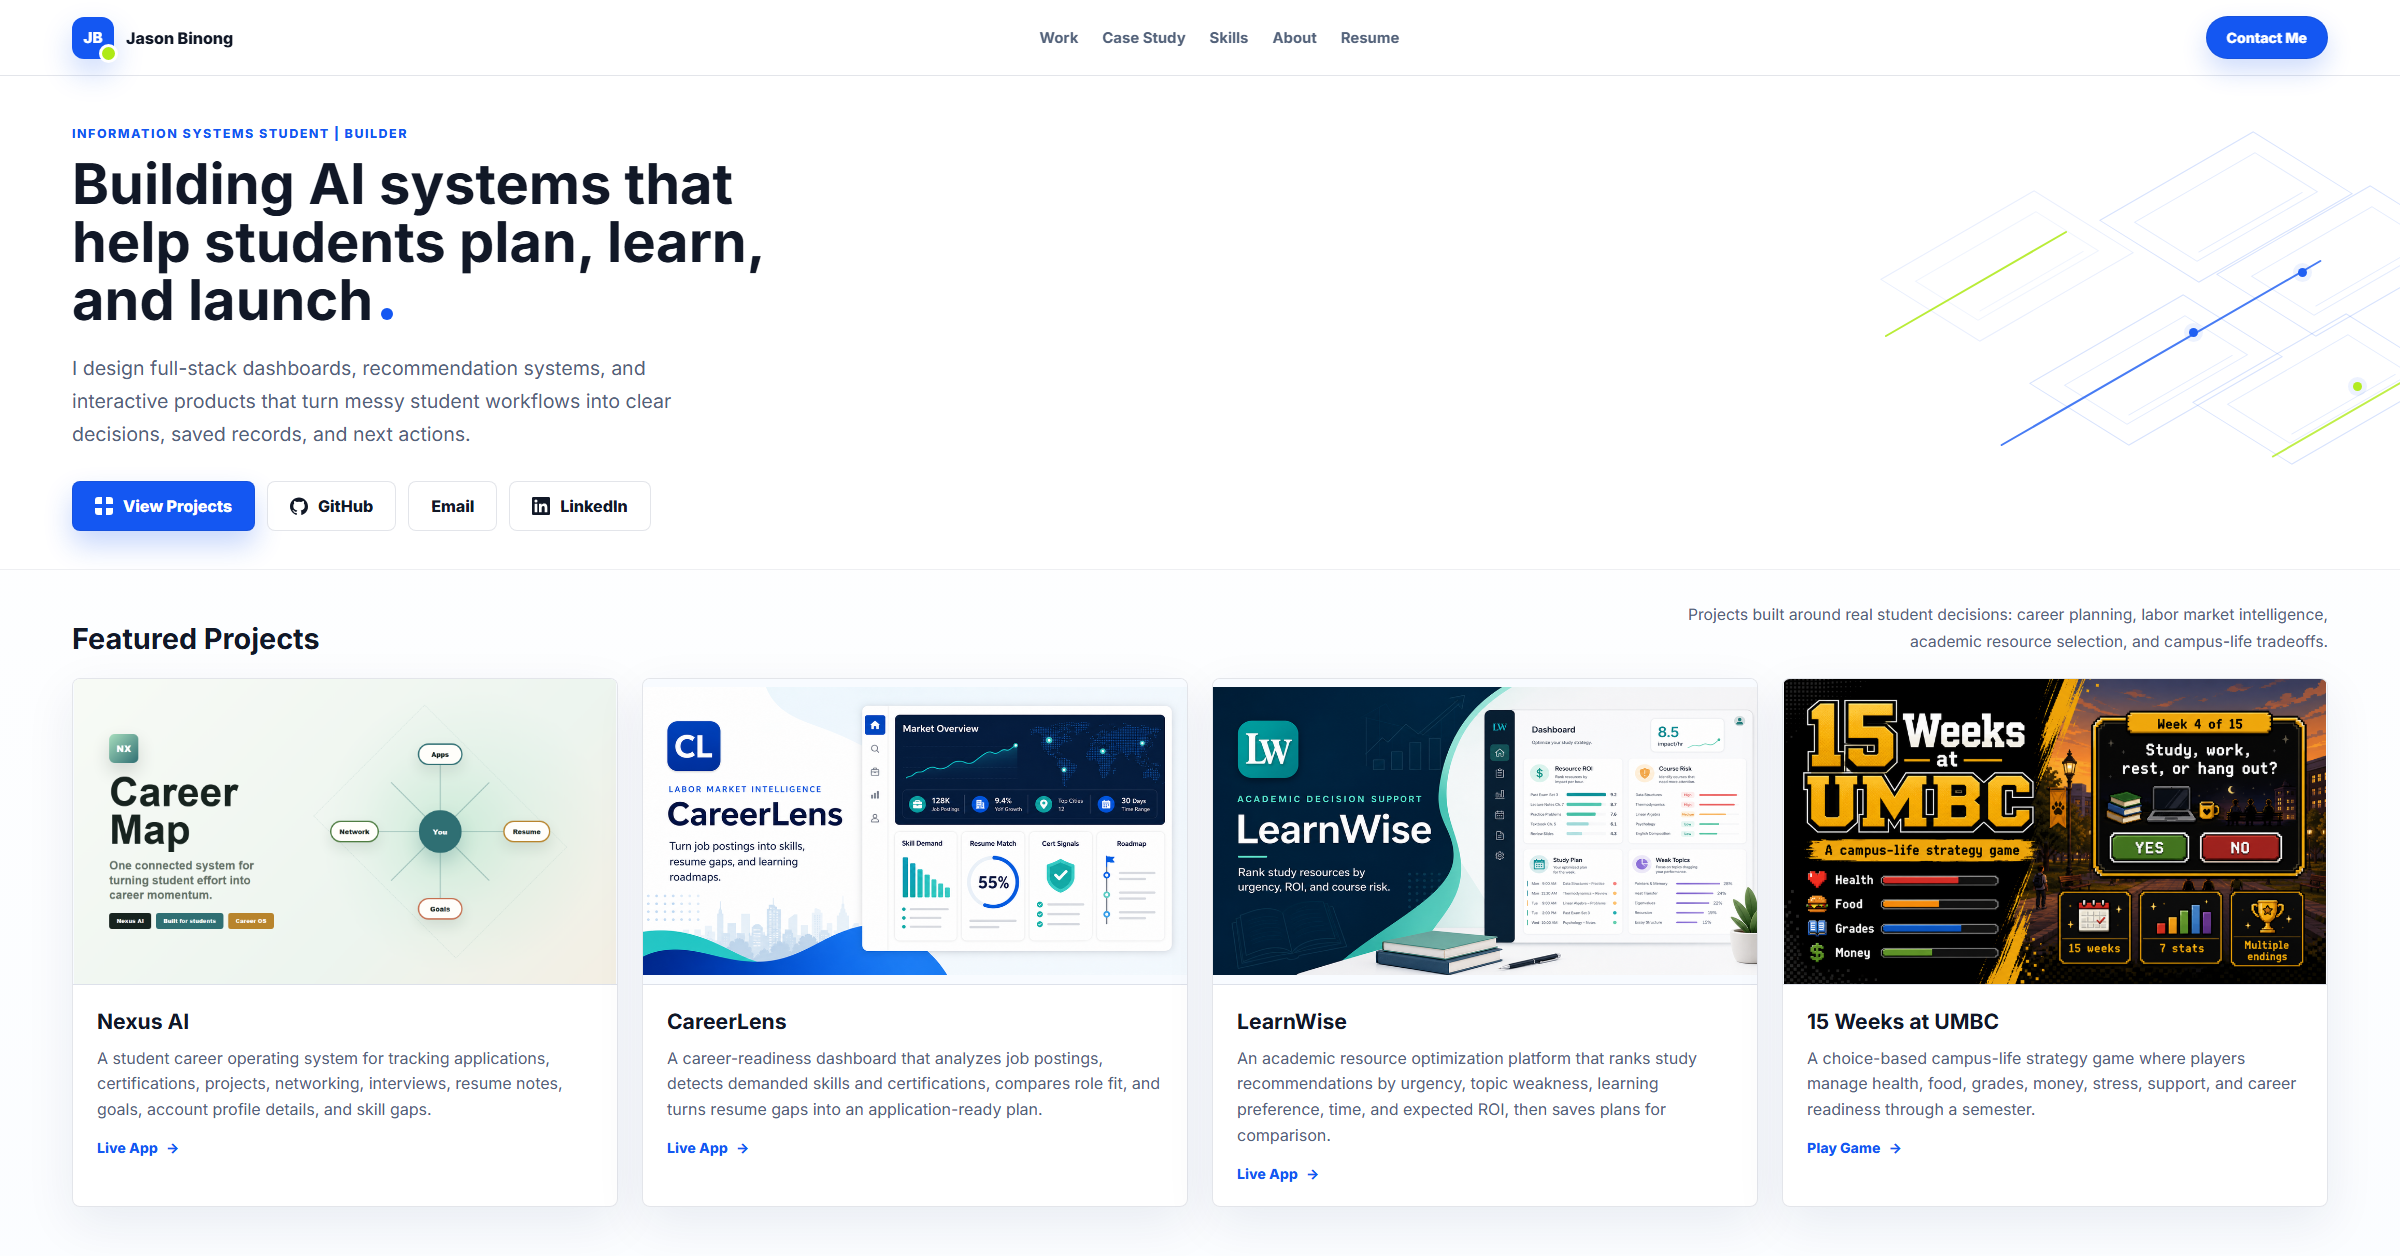
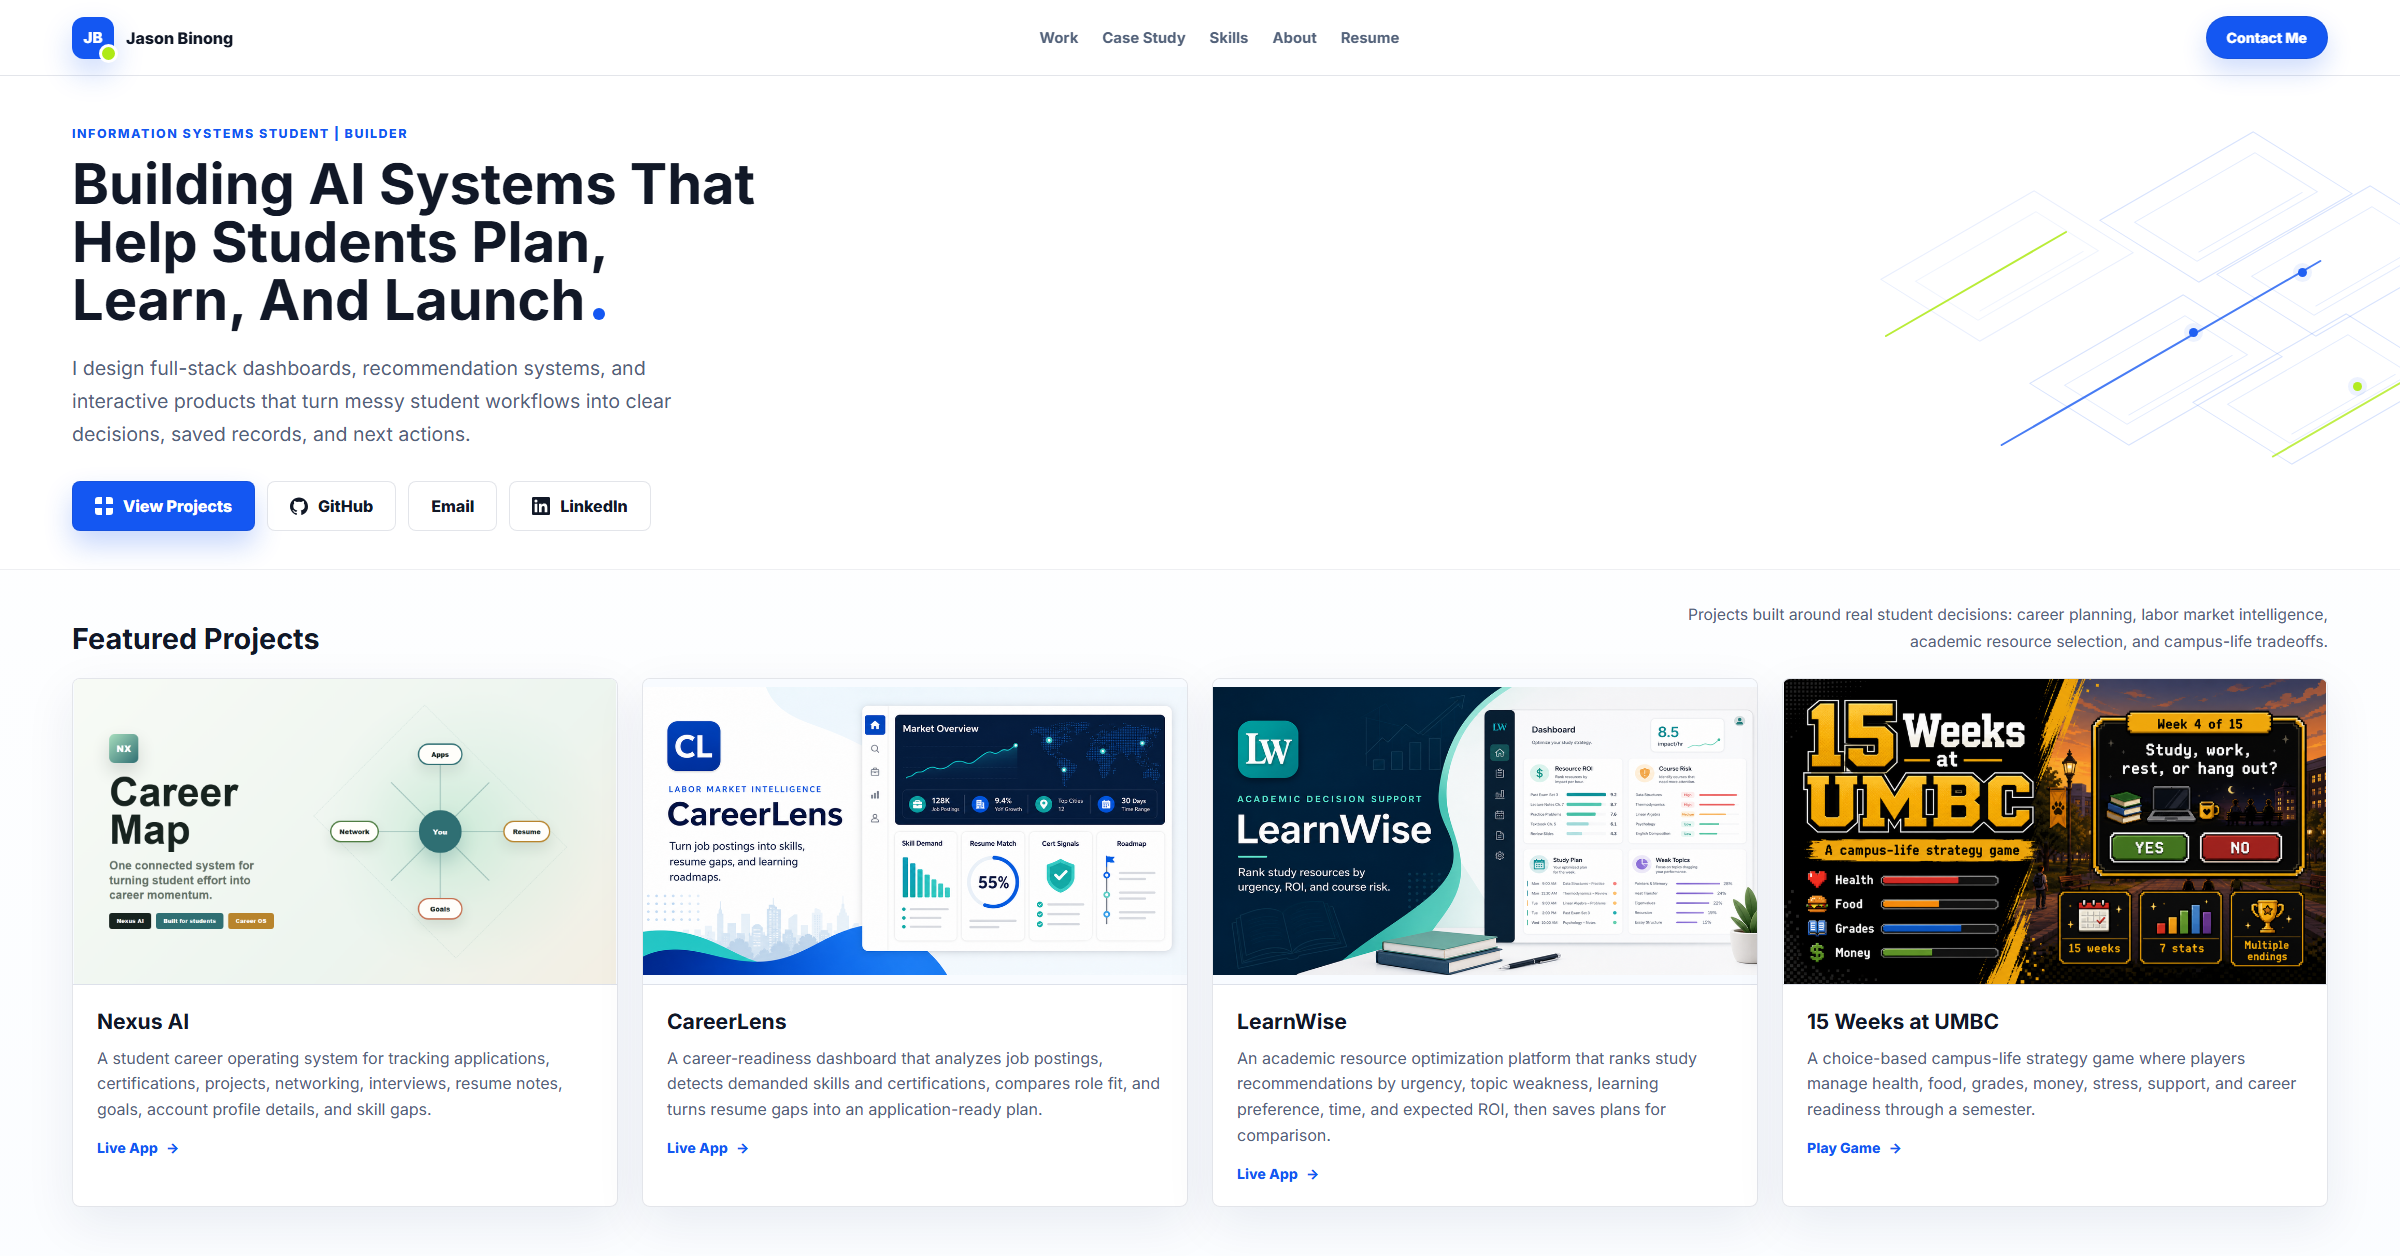
Use title case for portfolio hero

Changed region(s): [[0.0312, 0.1242, 0.3125, 0.2795]]

diff --git a/index.html b/index.html
@@ -30,7 +30,7 @@
     <section class="hero">
       <div class="hero-copy">
         <p class="eyebrow">Information Systems Student | Builder</p>
-        <h1>Building AI systems that help students plan, learn, and launch</h1>
+        <h1>Building AI Systems That Help Students Plan, Learn, And Launch</h1>
         <p class="hero-text">
           I design full-stack dashboards, recommendation systems, and interactive products that turn messy student workflows into clear decisions, saved records, and next actions.
         </p>